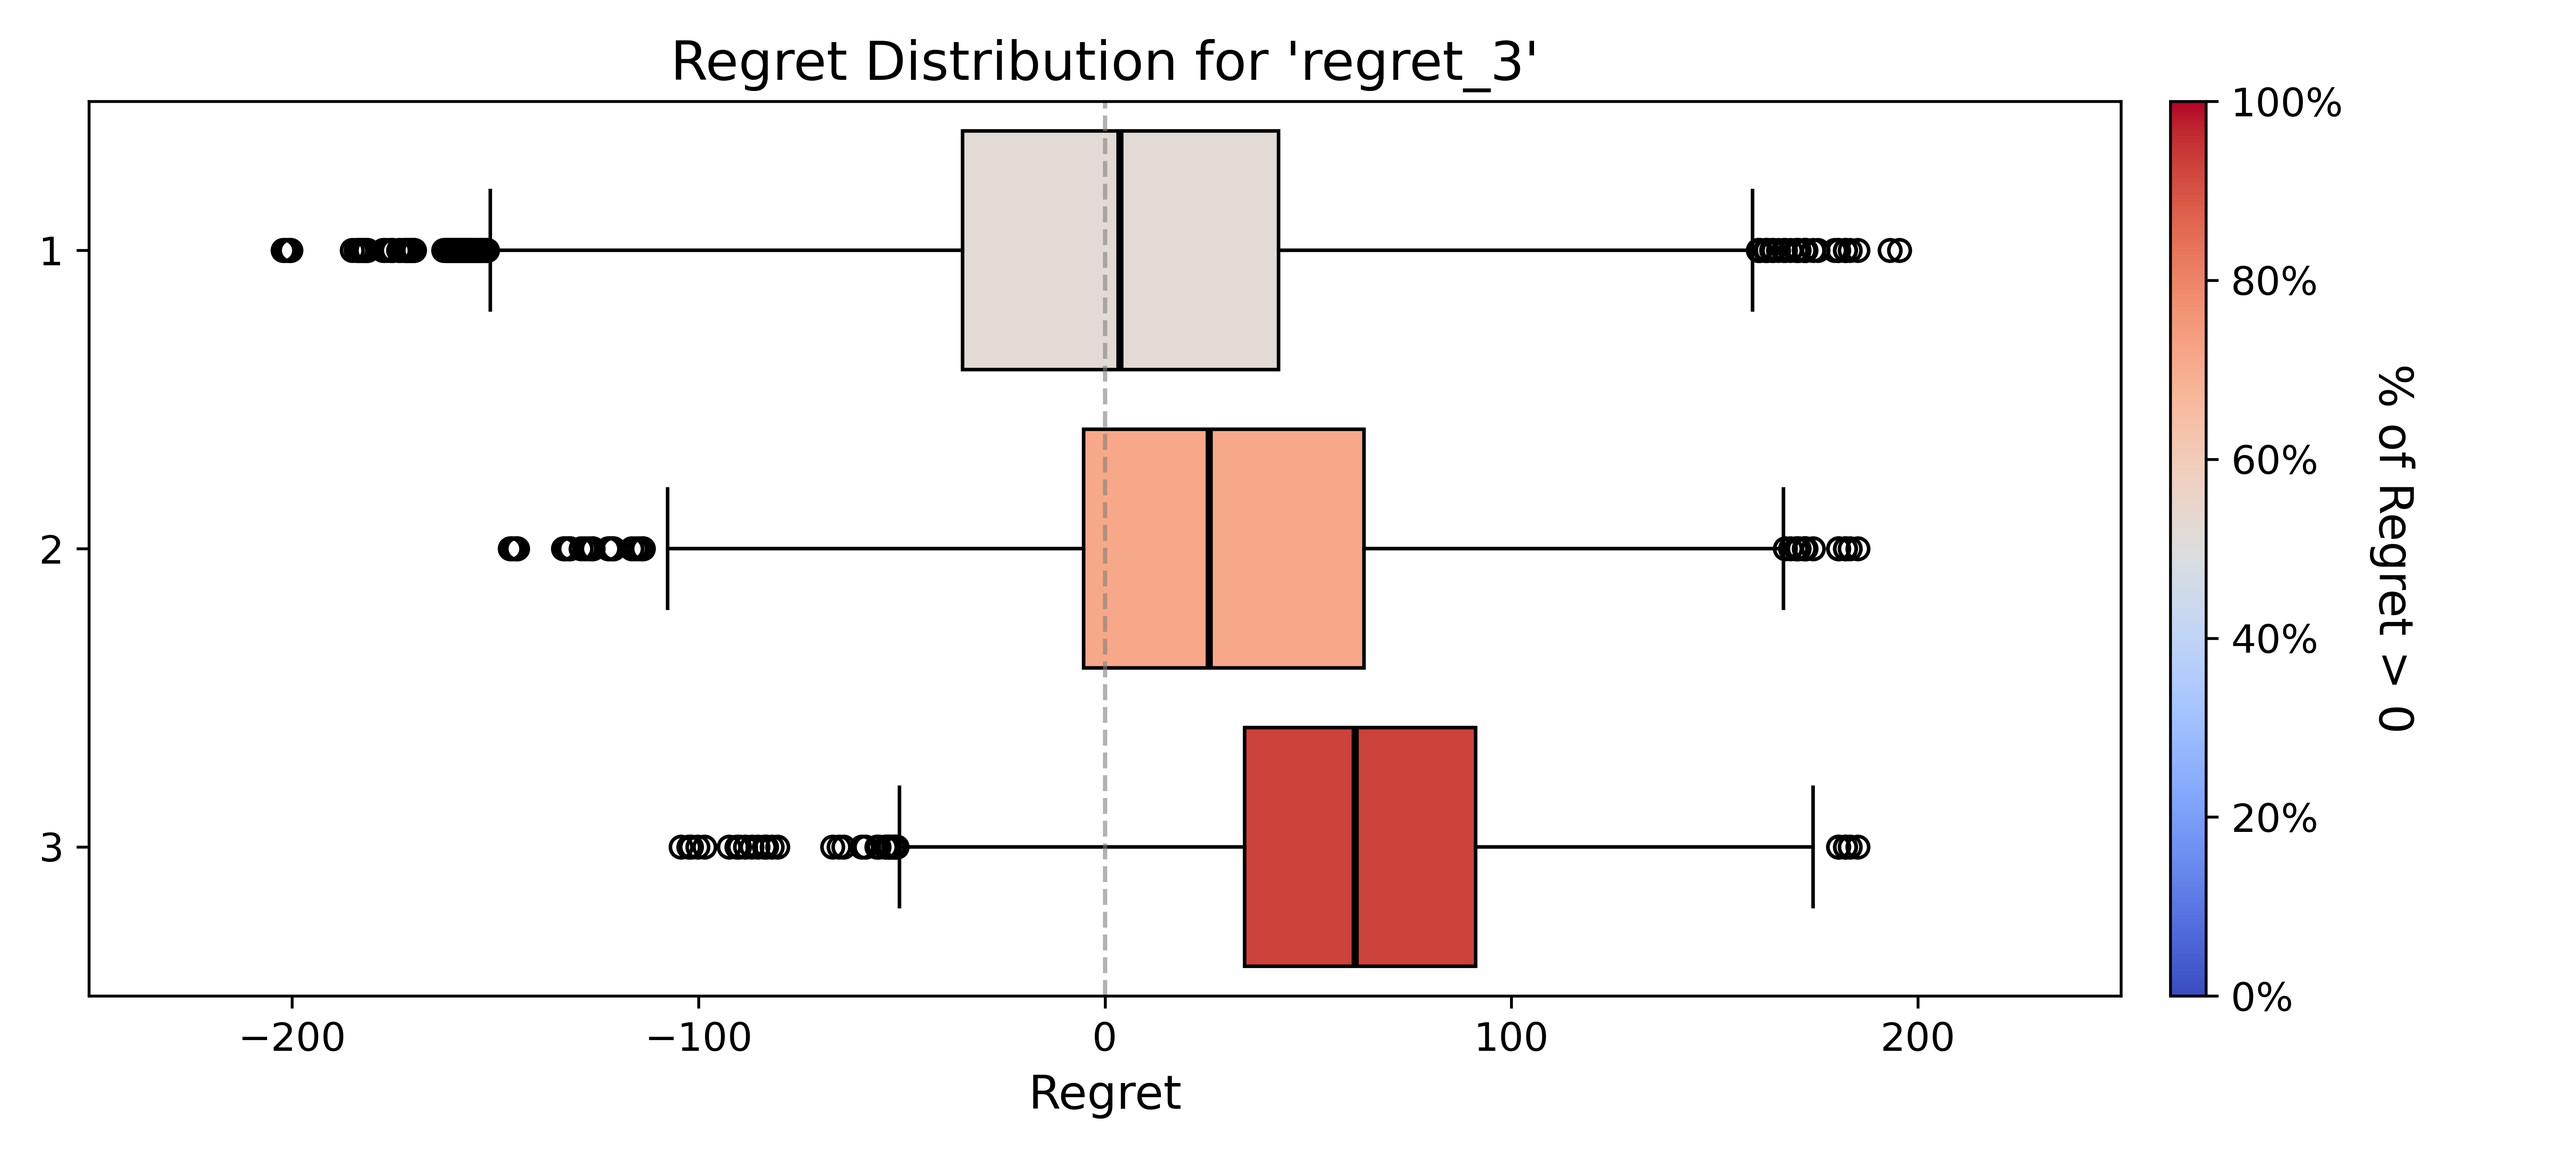
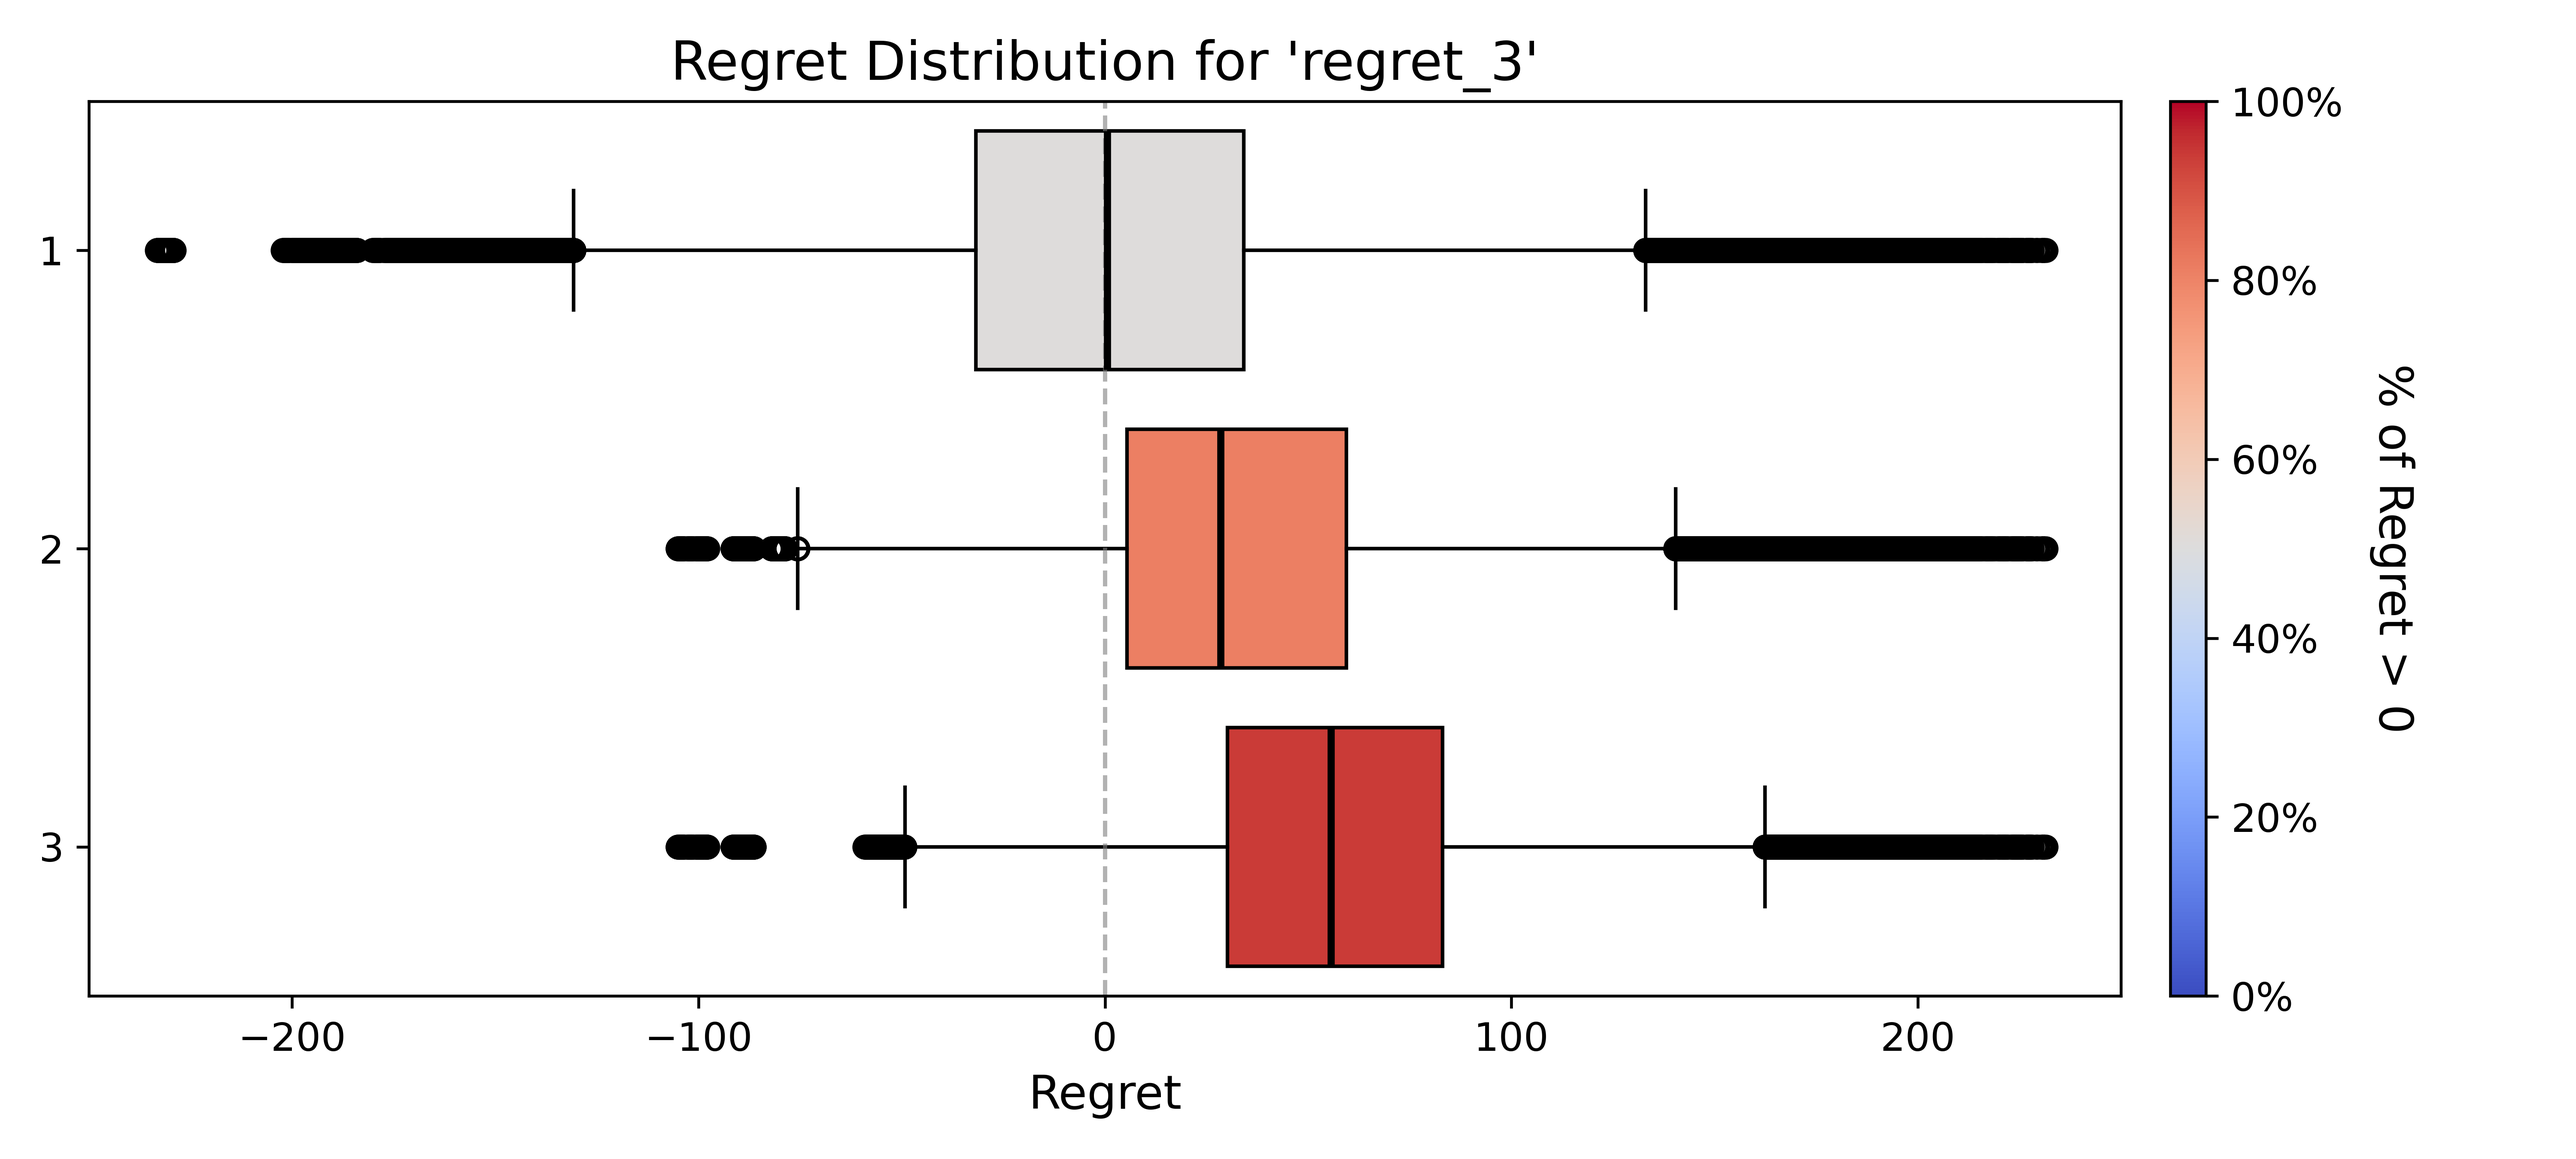
Finalized results, hopefully!

diff --git a/model.py b/model.py
@@ -47,6 +47,8 @@ def regret_BECCS(
     #Uncertainties:
     O2eff = 0.90,        #[-] for CLC
     Wasu = 230*3.6,      #[MJ/tO2], ref. is the macroscopic study
+    dTmin = 10,
+    U = 1500, 
 
     operating = 4500,
     dr=0.075,
@@ -144,17 +146,12 @@ def regret_BECCS(
     Qar = dHox * O2oc           #[MW]
     Qfr = dHred * O2oc
     Qoxy = LHVO2 * O2oxy
-    print("CLC heat summarizes to: ", sum([Qar, Qfr, Qoxy]) - Qfuel)
-    print(Qar)
-    print(Qfr)
-    print(Qoxy)
-    print(Qfuel)
+    # print("CLC heat summarizes to: ", sum([Qar, Qfr, Qoxy]) - Qfuel)
 
     mCO2 = 1.0105 * mfuel               #[kgCO2/s]
     mH2O = 0.7416 * mfuel               #[kgH2O/s]
     mfluegas = mCO2 + mH2O + O2oxy*32   #[kg/s], inside the post-oxidation chamber (incl. O2oxy)
     mash = 0.01375*mfuel
-    print(mfluegas)
  
     P = REF.P
     Pasu = Wasu/1000*O2oxy*32           #[MW] 
@@ -165,6 +162,8 @@ def regret_BECCS(
     Vfluegas = mfuel*(2.342 + 4.203)   #[Nm3/s] assuming no O2 in this flue gas... slightly inconsistent with mfluegas
     Across = Vfluegas/5.5                   # Assumed 5.5m/s from Judit
     Afr = 1300/20 * Across                  # Scaled linearly from Anders
+
+    Ahex = Qoxy*10**6/(U*dTmin)
     CLC = ConversionTech("clc", Qfuel, REF.Qnet , Pnet, memitted, mcaptured, operating+operating_increase)
     CLC.mfluegas = mfluegas
 
@@ -176,8 +175,8 @@ def regret_BECCS(
     memitted = mCO2 * (1-rate)
     OXY = ConversionTech("oxy", Qfuel, REF.Qnet , Pnet, memitted, mcaptured, operating+operating_increase)
 
-    for tech in [REF,AMINE,OXY,CLC]:
-        tech.print()
+    # for tech in [REF,AMINE,OXY,CLC]:
+    #     tech.print()
 
     ### -------------- CALCULATING COSTS AND NPV ------------- ###
     # Calculating CAPEX per item [MEUR]:
@@ -187,18 +186,18 @@ def regret_BECCS(
         'amines' : cAM*sek * AMINE.mcaptured/16.6, # assuming a linear relationship between mcaptured and CAPEX... Let's remove the CL capex cost:
     }
     CLC.shopping_list = {
-        'FR' : 4.98*(Afr/1531)**cFR*usd * CEPCI/585.7 *1.4, 
+        'FR' : 4.98*(Afr/1531)**cFR*usd * CEPCI/585.7 *1.4, # constants are "installation factors" from Macroscopic
         'cyclone' : 0.345*( 3 )*usd * CEPCI/576.1 *1.4, 
         'POC' : ( 48.67*10**-6*(CLC.mfluegas) * (1 + np.exp(0.018*(850+273.15)-26.4)) * 1/(0.995-0.98) )*usd * CEPCI/585.7 *1.3,
         'ASU' : 0.02*(59)**0.067/((1-0.95)**0.073) * (O2oxy*1000*3600/453.592)**cASU *usd * CEPCI/499.6 *1.3,
         'OCash' : (4.6*(mash/6.7)**0.56)*usd * CEPCI/603.1 *1.2,
         'CL' : 25.5 * mcaptured/37.31 * CEPCI/607.5 *1.3,  #Assuming that Deng had cost year = 2019 NOTE: unclear if installation 1.3 should be included or not? NOTE: Kjästad estimates CL cost in SKEPPKOSTNAD excel?
         'interim' : (53000+2400*(4000)**0.6 )*10**-6 *usd * CEPCI/499.6 *1.2, #Function from Judit, 4000m3 from Ramboll, CEPCI from Google
+        'HEX' :  (2.8626 * Ahex ** 0.7988)/1000 * CEPCI/576.1 *1.3 # Biermann 2022 Appendix is source! He uses kEUR so divide by 1000 to get MEUR
     }
-    for item, cost in CLC.shopping_list.items():
-        print(f"{item}: {cost:.2f}")
+    # for item, cost in CLC.shopping_list.items():
+    #     print(f"{item}: {cost:.2f}")
 
-    print(" HEAT CONVECTIVE PASS NEEDED")
     OXY.shopping_list = {
         'ASU' : 0.02*(59)**0.067/((1-0.95)**0.073) * (O2demand*1000*3600/453.592)**cASU *usd * CEPCI/499.6 *1.3,
         'CL' : 25.5 * mcaptured/37.31 * CEPCI/607.5 *1.3,  
@@ -210,9 +209,8 @@ def regret_BECCS(
     AMINE.CAPEX = AMINE.shopping_list["amines"]*(1 + overrun)
 
     # Escalating CAPEX of CLC and OXY
-    initial_items = ['FR', 'cyclone', 'POC', 'ASU', 'OCash',] # These should have an additional contingency
-    delayed_items = ['CL', 'interim']
-    print(" ASU OF CLC IS DEPLOYED EARLY - NO IT SHOULD BE DELAYED!!! --- and add 25% HEX CONVECTIONSTRÅK AFTER FR <- a signifcant cost, Magnus thinks")
+    initial_items = ['FR', 'cyclone', 'OCash',]
+    delayed_items = ['CL', 'POC', 'ASU', 'interim']
 
     BEC =  sum(value for key, value in CLC.shopping_list.items() if key in initial_items)
     EPCC = BEC*(1 + EPC) # To harmonize with Ramboll amine costs
@@ -223,7 +221,8 @@ def regret_BECCS(
     BEC =  sum(value for key, value in CLC.shopping_list.items() if key in delayed_items)
     EPCC = BEC*(1 + EPC)
     TPC = EPCC*(1 + contingencies)
-    CLC.CAPEX = TPC*(1 + ownercost)*(1 + overrun)
+    TOC = TPC*(1 + ownercost)
+    CLC.CAPEX = TOC*(1 + immature)*(1 + overrun)
 
     BEC =  sum(OXY.shopping_list.values())
     EPCC = BEC*(1 + EPC) # To harmonize with Ramboll amine costs
@@ -346,5 +345,3 @@ if __name__ == "__main__":
     print("amine vs. ref regret=", dict["regret_1"])
     print("amine vs. oxy regret=", dict["regret_2"])
     print("amine vs. clc regret=", dict["regret_3"])
-
-    print("\n I am only missing EU ETS integration scenarios! :) And T&S maybe")

diff --git a/controller.py b/controller.py
@@ -25,7 +25,9 @@ model = Model("BECCSMalmo", function=regret_BECCS)
 
 model.uncertainties = [
     RealParameter("O2eff", 0.85, 0.95),     # [-] for CLC
-    RealParameter("Wasu", 800, 900),        # MJ/tO2 (converted from 230*3.6, Macroscopic or Lyngfelt or Ramboll)
+    RealParameter("dTmin", 8, 12),          # [-] Tharun PlantSystem
+    RealParameter("U", 1200, 1800),         # [-] Biermann 2022
+    # RealParameter("Wasu", 800, 900),        # MJ/tO2 (converted from 230*3.6, Macroscopic or Lyngfelt or Ramboll)
 
     RealParameter("operating", 4000, 5000), # Operating hours
     RealParameter("dr", 0.05, 0.10),        # Discount rate
@@ -64,7 +66,6 @@ model.uncertainties = [
     CategoricalParameter("Procurement", [True, False]),
     CategoricalParameter("Time", ["Baseline", "Downtime", "Uptime"]),
 ]
-print("Need to re-run the controller after implementing Procure/Capping variables ... next revision!")
 
 model.levers = [
     # CategoricalParameter("decision", ["ref", "amine", "oxy", "clc"]),
@@ -89,8 +90,8 @@ model.outcomes = [
 # ]
 
 ema_logging.log_to_stderr(ema_logging.INFO)
-n_scenarios = 500
-n_policies = 20
+n_scenarios = 5000
+n_policies = 200
 # Regular LHS sampling:
 results = perform_experiments(model, n_scenarios, n_policies, uncertainty_sampling = Samplers.LHS, lever_sampling = Samplers.LHS)
 experiments, outcomes = results

diff --git a/sdplot_4.py b/sdplot_4.py
@@ -74,7 +74,7 @@ ax.scatter(
 )
 
 # Overlay: highlight with distinct edge
-overlay = data_lhs[((data_lhs["timing"] == 5) | (data_lhs["timing"] == 10)) & (data_lhs["immature"] < 1.77)]
+overlay = data_lhs[((data_lhs["timing"] == 5) | (data_lhs["timing"] == 10)) & (data_lhs["immature"] < 1.27)]
 ax.scatter(
     overlay["immature"]*100,
     overlay["regret_3"],
@@ -83,15 +83,15 @@ ax.scatter(
     linewidths=0.6,
     s=40,
     alpha=0.50,
-    label="immature < 1.77 & timing < 12.5"
+    label="immature < 1.27 & timing < 12.5"
 )
 
 legend_elements = [
-    Line2D([0], [0], marker='o', color='w', label='ti',
+    Line2D([0], [0], marker='o', color='w', label='Early investments',
            markerfacecolor='mediumseagreen', markersize=8, alpha=1.0),
-    Line2D([0], [0], marker='o', color='w', label='im',
+    Line2D([0], [0], marker='o', color='w', label='Early investments and low immaturity',
        markerfacecolor='mediumseagreen', markeredgecolor='black', markersize=8, markeredgewidth=0.6),
-    Line2D([0], [0], marker='o', color='w', label='ti',
+    Line2D([0], [0], marker='o', color='w', label='Other',
            markerfacecolor='gray', markersize=8, alpha=0.6),
 ]
 

diff --git a/controller_sobol.py b/controller_sobol.py
@@ -25,7 +25,9 @@ model = Model("BECCSMalmo", function=regret_BECCS)
 
 model.uncertainties = [
     RealParameter("O2eff", 0.85, 0.95),     # [-] for CLC
-    RealParameter("Wasu", 800, 900),        # MJ/tO2 (converted from 230*3.6, Macroscopic or Lyngfelt or Ramboll)
+    RealParameter("dTmin", 8, 12),          # [-] Tharun PlantSystem
+    RealParameter("U", 1200, 1800),         # [-] Biermann 2022
+    # RealParameter("Wasu", 800, 900),        # MJ/tO2 (converted from 230*3.6, Macroscopic or Lyngfelt or Ramboll)
 
     RealParameter("operating", 4000, 5000), # Operating hours
     RealParameter("dr", 0.05, 0.10),        # Discount rate
@@ -107,7 +109,7 @@ def analyze(results, ooi):
         sobol_indices["S2_conf"], index=problem["names"], columns=problem["names"]
     )
     return sobol_stats, s2, s2_conf, problem
-sobol_stats, s2, s2_conf, problem = analyze(results, "regret_2")
+sobol_stats, s2, s2_conf, problem = analyze(results, "regret_3")
 print(sobol_stats)
 print(s2)
 print(s2_conf)
